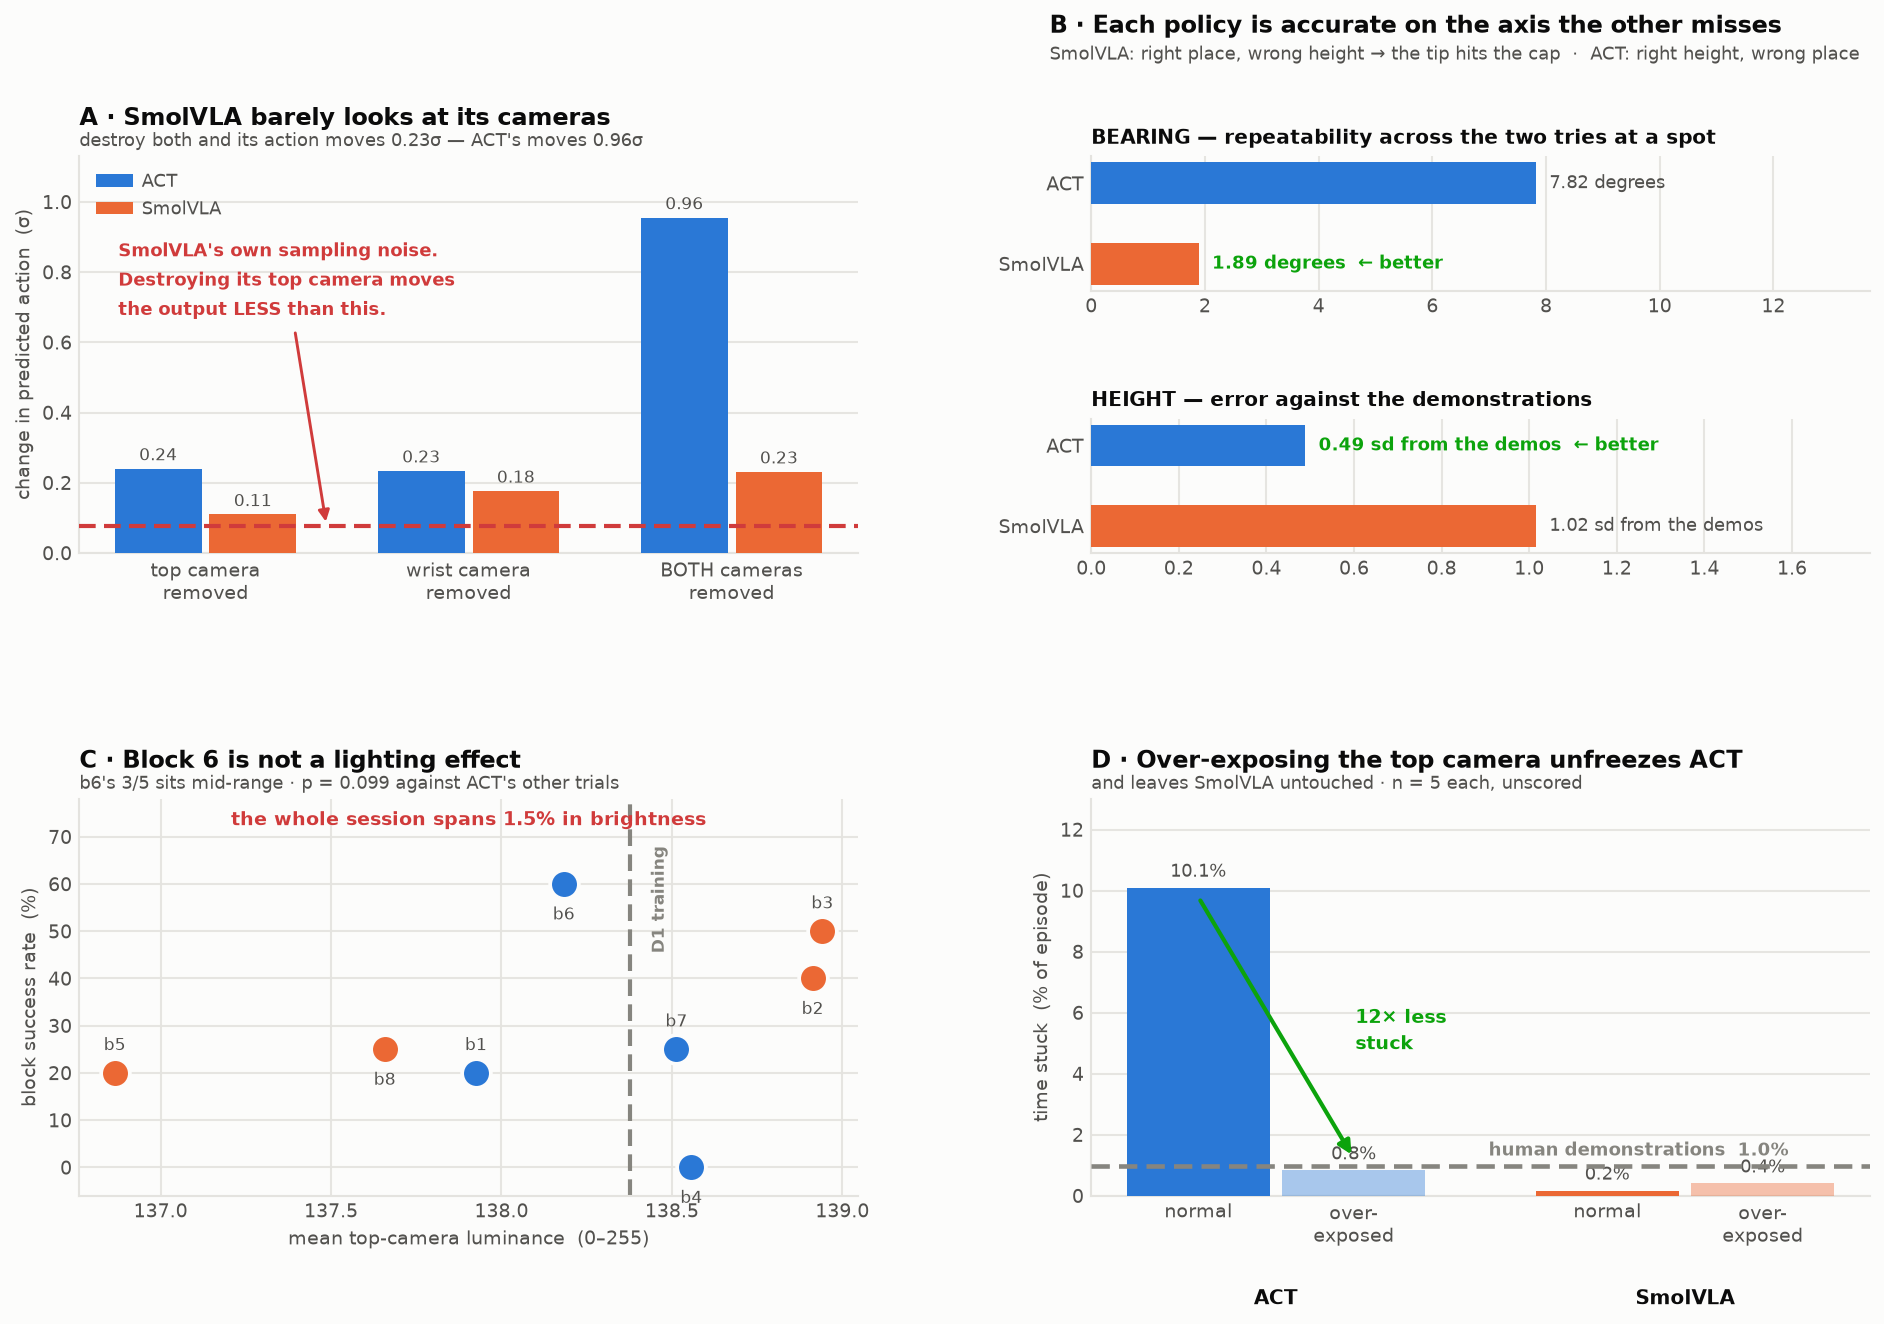
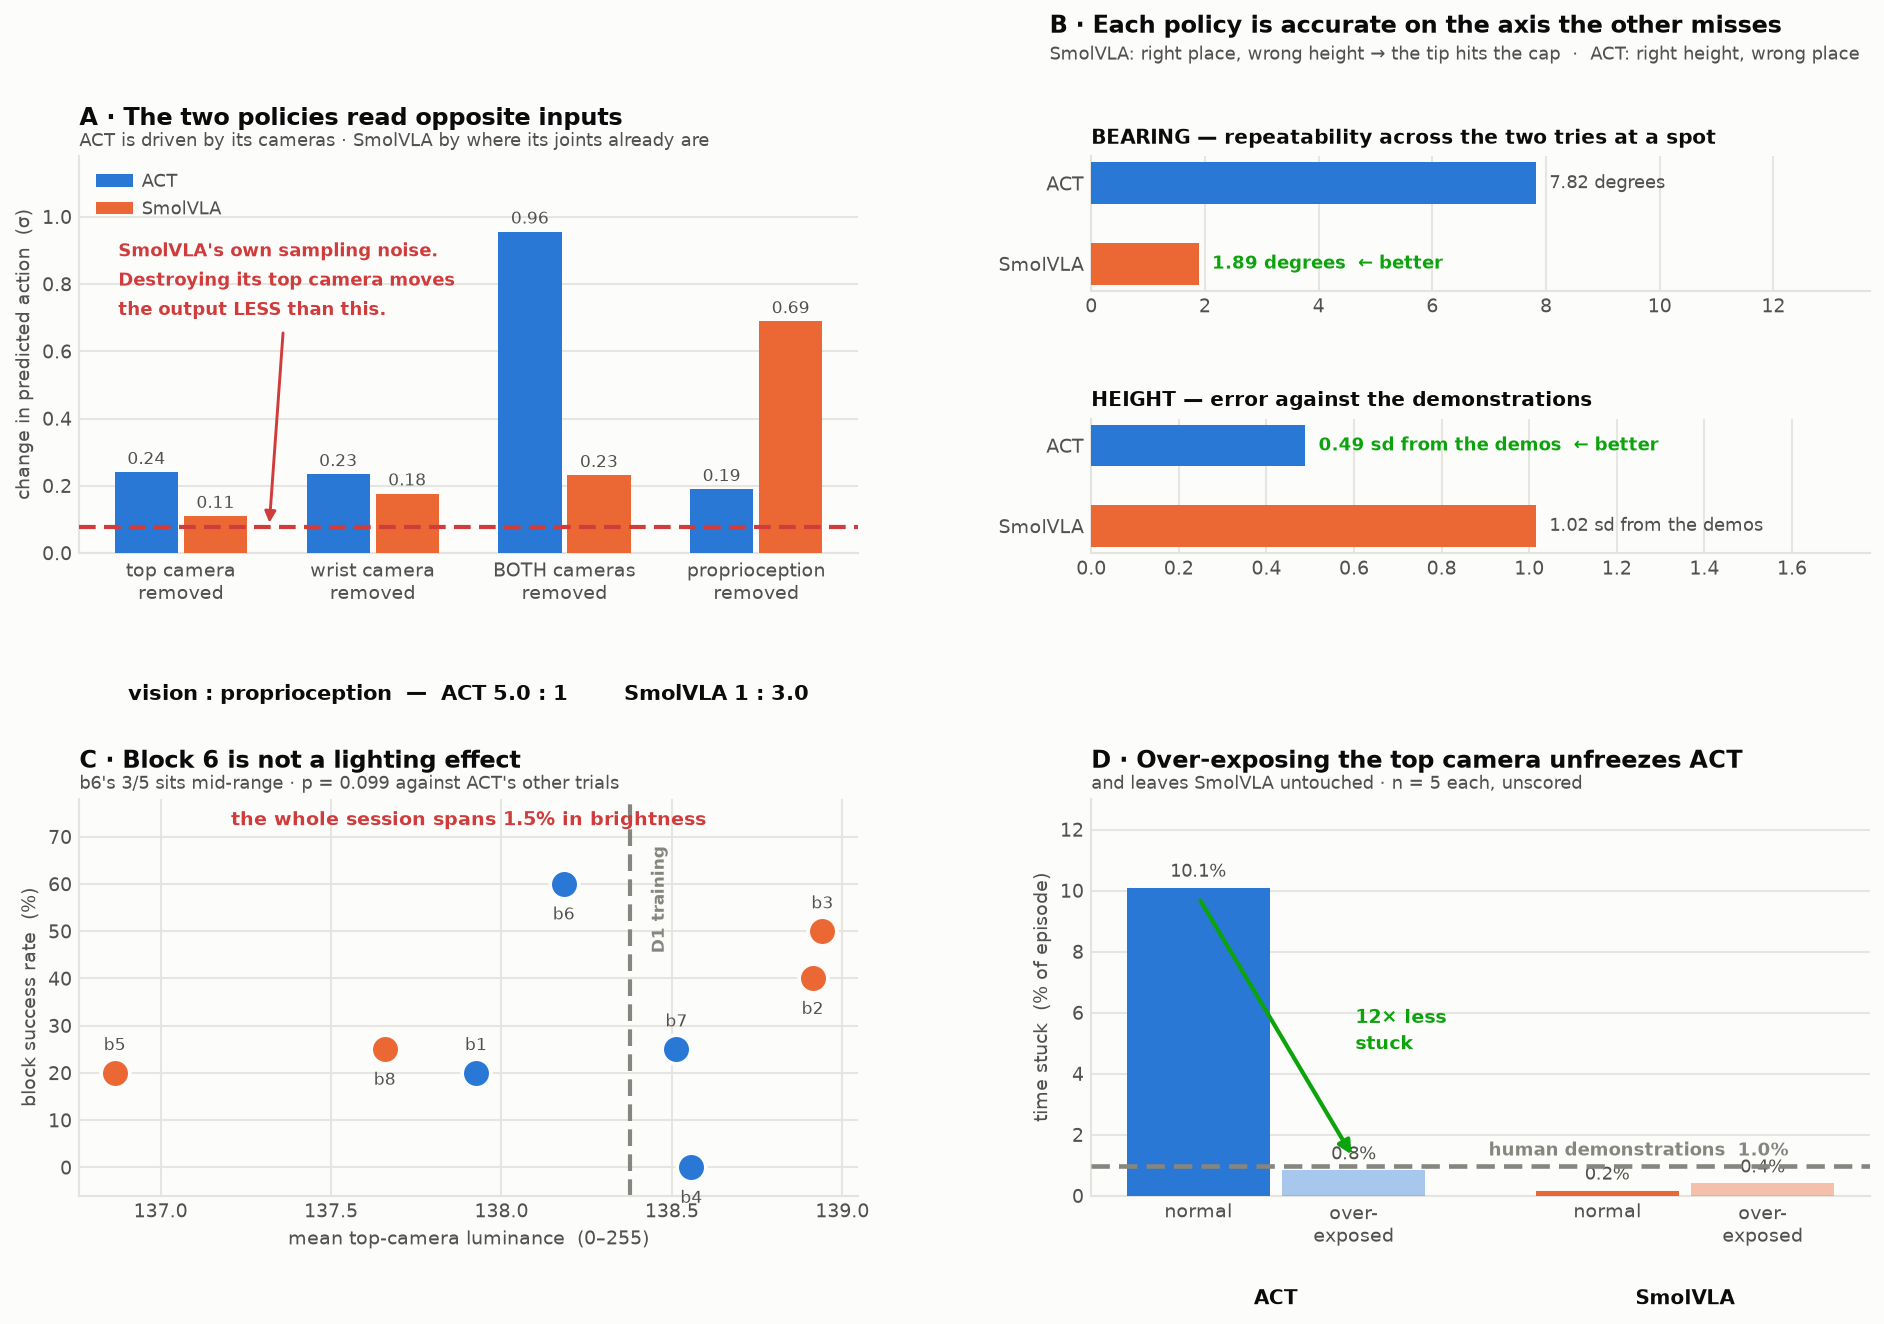
SmolVLA is driving on proprioception, not vision - the copycat shortcut
Ablating each input in turn settles what "open-loop" actually meant, and the
earlier claim was imprecise. In units of the training action sigma:

  ablate              ACT   SmolVLA
  top camera         0.24      0.11
  wrist camera       0.23      0.18
  BOTH cameras       0.96      0.23
  proprioception     0.19      0.69
  (own sampling)    0.000     0.078
  vision : state   5.0 : 1   1 : 3.0

The two policies read opposite inputs and weight them 15-fold differently. ACT
is driven by what it sees; SmolVLA by where its joints already are. That is the
copycat shortcut of behaviour cloning: actions are smooth and autocorrelated,
so "continue from the current joint configuration" minimises most of the
per-frame loss and the harder "find the cylinder, go there" mapping is never
learned.

It collapses exactly where the task needs it. At the GRASP stage, destroying
SmolVLA's top camera moves its action 0.061 - LESS than re-sampling with the
camera untouched (0.063). That is the stage it fails at 8 times in 18. ACT by
contrast uses the top camera to reach (0.492) and the wrist to transport
(0.344), the right camera for each job.

This makes the "more data did not help" result structural rather than
accidental: a shortcut is the easiest loss minimiser at any dataset size, so
more data cannot dislodge it, and more VARIED data makes it worse because
variation it cannot condition on becomes variance it samples. Measured:
[…]

diff --git a/scripts/probe_camera_sensitivity.py b/scripts/probe_camera_sensitivity.py
@@ -52,6 +52,7 @@ ARMS = [
     ("sv20k_d1", "outputs/train/smolvla_tray_cylinder_s1000_d1_resumed", "020000"),
 ]
 TOP, WRIST = "observation.images.top", "observation.images.wrist"
+STATE = "observation.state"
 # Mean top-camera luminance measured in the bright-lighting rollouts, against 138 in the normal
 # session and the D1 training data (results/phase07_eval/r2_brightness_per_block.csv).
 BRIGHT_TARGET = 198.0 / 255.0
@@ -83,8 +84,24 @@ def perturbations(mean_img: dict[str, torch.Tensor]):
             o[cam] = mean_img[cam].to(b[cam].device).expand_as(b[cam]).clone()
         return o
 
+    def state_blank(b):
+        # "Open-loop with respect to vision" and "open-loop" are different diagnoses. If the
+        # action barely moves when BOTH cameras go but collapses when proprioception goes, the
+        # policy is predicting the next action from the current joint configuration - the
+        # classic imitation-learning shortcut, since actions are smooth and the previous state
+        # predicts the next action far better than any pixel does.
+        o = dict(b)
+        o[STATE] = mean_img[STATE].to(b[STATE].device).expand_as(b[STATE]).clone()
+        return o
+
+    def all_blank(b):
+        o = both(b)
+        o[STATE] = mean_img[STATE].to(b[STATE].device).expand_as(b[STATE]).clone()
+        return o
+
     return {"top_blank": blank(TOP), "wrist_blank": blank(WRIST),
-            "top_bright": bright(TOP), "both_blank": both}
+            "top_bright": bright(TOP), "both_blank": both,
+            "state_blank": state_blank, "everything_blank": all_blank}
 
 
 @torch.no_grad()
@@ -152,14 +169,15 @@ def main() -> int:
         # Mean image per camera over the probed frames: destroying a camera by replacing it with
         # the dataset mean removes its information while staying closer to the training
         # distribution than a flat grey would.
-        acc, cnt = {TOP: 0.0, WRIST: 0.0}, 0
+        acc, cnt = {TOP: 0.0, WRIST: 0.0, STATE: 0.0}, 0
         for b in loader:
             for cam in (TOP, WRIST):
                 x = b[cam]
                 x = x.to(torch.float32) / 255.0 if x.dtype == torch.uint8 else x.to(torch.float32)
                 acc[cam] = acc[cam] + x.sum(dim=0, keepdim=True)
+            acc[STATE] = acc[STATE] + b[STATE].to(torch.float32).sum(dim=0, keepdim=True)
             cnt += b[TOP].shape[0]
-        mean_img = {c: (acc[c] / cnt).to(device) for c in (TOP, WRIST)}
+        mean_img = {c: (acc[c] / cnt).to(device) for c in (TOP, WRIST, STATE)}
 
         perts = perturbations(mean_img)
         conds = ["seed_repeat", *perts]

diff --git a/scripts/make_phase07_r2_figs.py b/scripts/make_phase07_r2_figs.py
@@ -166,7 +166,7 @@ def fig_diagnosis(d, path):
     # ---- A: how much does the output depend on the cameras? ---------------------------------
     ax = fig.add_subplot(gs[0, 0])
     conds = [("top_blank", "top camera\nremoved"), ("wrist_blank", "wrist camera\nremoved"),
-             ("both_blank", "BOTH cameras\nremoved")]
+             ("both_blank", "BOTH cameras\nremoved"), ("state_blank", "proprioception\nremoved")]
     xs = np.arange(len(conds))
     for i, arm in enumerate(ARMS):
         v = [d["cam"][arm][k]["mean"] for k, _ in conds]
@@ -185,13 +185,19 @@ def fig_diagnosis(d, path):
                                 shrinkB=2))
     ax.set_xticks(xs); ax.set_xticklabels([l for _, l in conds], fontsize=8.6)
     ax.set_ylabel("change in predicted action  (σ)", color=INK2, fontsize=9)
-    ax.set_ylim(0, 1.13)
+    ax.set_ylim(0, 1.18)
     _style(ax)
     leg = ax.legend(frameon=False, fontsize=8.8, loc="upper left", handletextpad=0.5)
     for t in leg.get_texts():
         t.set_color(INK2)
-    _title(ax, "A · SmolVLA barely looks at its cameras",
-           "destroy both and its action moves 0.23σ — ACT's moves 0.96σ")
+    # The ratio is the finding, so state it rather than leaving it to be read off the bars.
+    rv = {a: d["cam"][a]["both_blank"]["mean"] / d["cam"][a]["state_blank"]["mean"] for a in ARMS}
+    ax.text(0.5, -0.33, f"vision : proprioception  —  ACT {rv['act40k_d1']:.1f} : 1"
+            f"        SmolVLA 1 : {1/rv['sv20k_d1']:.1f}",
+            transform=ax.transAxes, ha="center", va="top", fontsize=10, color=INK,
+            fontweight="700")
+    _title(ax, "A · The two policies read opposite inputs",
+           "ACT is driven by its cameras · SmolVLA by where its joints already are")
 
     # ---- B: the grasp, decomposed -----------------------------------------------------------
     sub = gs[0, 1].subgridspec(2, 1, hspace=0.95)

diff --git a/docs/details/phase07_portable_rig.md b/docs/details/phase07_portable_rig.md
@@ -2098,16 +2098,53 @@ demonstrator pauses a fifth of the time.
 
 ![round-2 diagnosis](figs/phase07_r2_diagnosis.png)
 
-**SmolVLA is largely running open-loop — this is the finding that explains the rest.** Destroy
-*both* its cameras and its predicted action moves **0.23σ**; ACT's moves **0.96σ**, and ACT has no
-sampling noise at all. Worse, SmolVLA's own sample-to-sample spread on *identical* input is
-**0.078σ**, which is **more than the effect of over-exposing its top camera (0.042σ)**. Its tremor,
-its refusal to pause and its unpredictability are what a policy looks like when the noise it
-samples outweighs the image it conditions on.
+**SmolVLA is driving on proprioception, not on its cameras. This is the finding that explains
+the rest.** Ablating each input in turn, in units of the training action σ:
 
-> **This is the answer to "why did more data not help".** More varied images cannot help a policy
-> that is barely reading images. It also means **no SmolVLA checkpoint will fix it** — the §12.8
-> selection question is downstream of a conditioning problem, not the cause of one.
+| ablate | ACT | SmolVLA |
+|---|---|---|
+| top camera | 0.24 | 0.11 |
+| wrist camera | 0.23 | 0.18 |
+| **both cameras** | **0.96** | **0.23** |
+| **proprioception** | **0.19** | **0.69** |
+| *(its own sampling noise, identical input)* | *0.000* | *0.078* |
+| **vision : proprioception** | **5.0 : 1** | **1 : 3.0** |
+
+**The two policies read opposite inputs, and the weighting differs 15-fold.** ACT is driven by what
+it sees; SmolVLA by where its joints already are. That is the **copycat shortcut** of behaviour
+cloning: actions are smooth and strongly autocorrelated, so "continue from the current joint
+configuration" explains most of the per-frame loss, and the harder "find the cylinder, then go
+there" mapping never has to be learned.
+
+**And it collapses exactly where the task needs it.** Per stage, SmolVLA's dependence on the top
+camera against its own noise floor:
+
+| | reach | **grasp** | transport | insert |
+|---|---|---|---|---|
+| SmolVLA, kill top | 0.196 | **0.061** | 0.079 | 0.093 |
+| *its sampling floor* | *0.099* | ***0.063*** | *0.070* | *0.074* |
+| ACT, kill top | **0.492** | 0.239 | 0.094 | 0.206 |
+| ACT, kill wrist | 0.156 | 0.230 | **0.344** | 0.192 |
+
+**At the grasp, destroying SmolVLA's top camera moves its action less than re-sampling with the
+camera untouched.** It is the stage it fails at 8 times in 18. ACT, by contrast, uses the top
+camera to reach and the wrist to transport — the right camera for each job.
+
+> **This is the answer to "why did more data not help", and it is structural.** A shortcut is the
+> easiest loss minimiser at *any* dataset size, so more data does not dislodge it — and more
+> *varied* data makes it worse, because the variation it cannot condition on becomes variance it
+> samples. SmolVLA's grasp-height spread is **1.42× the human demonstrations'** (ACT's is 0.94×):
+> not mode-averaging, which would be narrower, but an **over-dispersed draw** from a distribution
+> it is not conditioning on. "The gripper tip hits the cap" is a draw from the high side of it.
+>
+> It also means **no SmolVLA checkpoint will fix this** — §12.8's selection question is downstream
+> of the conditioning problem, not the cause of one.
+
+> **Not a misconfiguration.** `freeze_vision_encoder=true` and `train_expert_only=true` are
+> SmolVLA's *defaults*, in lerobot 0.6.1 and in the published `lerobot/smolvla_base`. The entire
+> SmolVLM2 backbone was frozen by design and only the action expert trained. Whether those frozen
+> features even resolve the cylinder is untested — §12.7's probe answered exactly that question for
+> π0.5 (R² 0.83) and has not been run for SmolVLA.
 
 **The grasp fails on a different axis for each**, which reconciles two measurements that first
 looked contradictory:
@@ -2160,7 +2197,7 @@ and speed-while-moving returns to **2.25** against the demonstrations' 2.24. Smo
 
 | # | Observation | Verdict |
 |---|---|---|
-| 1 | SmolVLA no better, jerkier, unexplainable behaviour; "weighted average?" | **Confirmed, mechanism found.** Jerkier is unverifiable across rounds (below), but SmolVLA is 2× ACT within the session, and the cause is that it is largely open-loop |
+| 1 | SmolVLA no better, jerkier, unexplainable behaviour; "weighted average?" | **Confirmed, mechanism found.** Jerkier is unverifiable across rounds (below), but SmolVLA is 2× ACT within the session. Not averaging — **over-dispersed sampling** (1.42× the demos' grasp-height spread) from a distribution it is barely conditioning on |
 | 2 | ACT similar rate, much better grasp accuracy | **Confirmed on outcome and height** (69% vs 56%, 0.49 vs 1.02 sd); **reversed on bearing**, where SmolVLA is 4× more repeatable |
 | 3a | Block 6 was brighter | **Refuted** — 1.5% session range, b6 mid-range |
 | 3b | Embedding shift D1 → eval | **Refuted** — 7% outside vs a 6% control |
@@ -2177,14 +2214,22 @@ and speed-while-moving returns to **2.25** against the demonstrations' 2.24. Smo
 
 ### What round 3 should do differently
 
-1. **Fix SmolVLA's conditioning before spending another session on it.** Check whether the vision
-   encoder is frozen and whether the action expert can see enough of it; 0.23σ for both cameras is
-   the number to move. More data is not the lever.
-2. **Test the deadlock hypothesis on ACT** — inference-time image dither, no retraining, no robot
-   time beyond one block.
-3. **Keep every rollout recording.**
-4. **Collect at consistent speed** (observation 5's own suggestion) — D1's 1.9× speed spread buys
-   variation the policies did not convert into robustness.
+**Stop collecting data until SmolVLA's conditioning is fixed.** Three rounds of evidence now say
+the dataset is not the binding constraint: D1 doubled the data and varied it deliberately, and the
+success rate did not move because the policy is not reading the images in the first place.
+
+| # | Do | Cost | Decides |
+|---|---|---|---|
+| 1 | **Run §12.7's frozen-feature probe on SmolVLA's VLM** — can frozen SmolVLM2 features predict cylinder position, as frozen SigLIP could for π0.5? | ~30 min, no training | Whether `freeze_vision_encoder=false` is *mandatory* or merely optional |
+| 2 | **Break the shortcut: state dropout.** Randomly zero `observation.state` during training so the expert cannot ride proprioception. lerobot has no such knob — it is a few lines in the preprocessor | ~1 h to patch, one training run | The direct test of the copycat diagnosis. Target: move SmolVLA's 0.23σ |
+| 3 | **Test ACT's deadlock** — add mild image dither at inference and re-measure the stuck fraction | one block, no training | Whether ACT's freezes are a feedback fixed point (predicted) or top-camera specific |
+| 4 | **Cut SmolVLA's sampling noise** — raise `num_steps` above 10, or average several sampled chunks | minutes | How much of the 95% jitter is sampler noise rather than the policy |
+| 5 | **Keep every rollout recording** (`push_to_hub=true`) | free | Makes the round-2 → round-3 comparison possible at all |
+
+**On collection speed** (observation 5's own suggestion): consistent speed would help, but the
+diagnosis reframes *why*. The problem is not variation — it is variation the policy cannot condition
+on, which becomes variance it samples. Fix the conditioning first; otherwise consistent speed just
+narrows the distribution a blind sampler draws from, which is a smaller version of the same patch.
 
 ## 12.10 — Deferred, and why each is safe to defer
 
